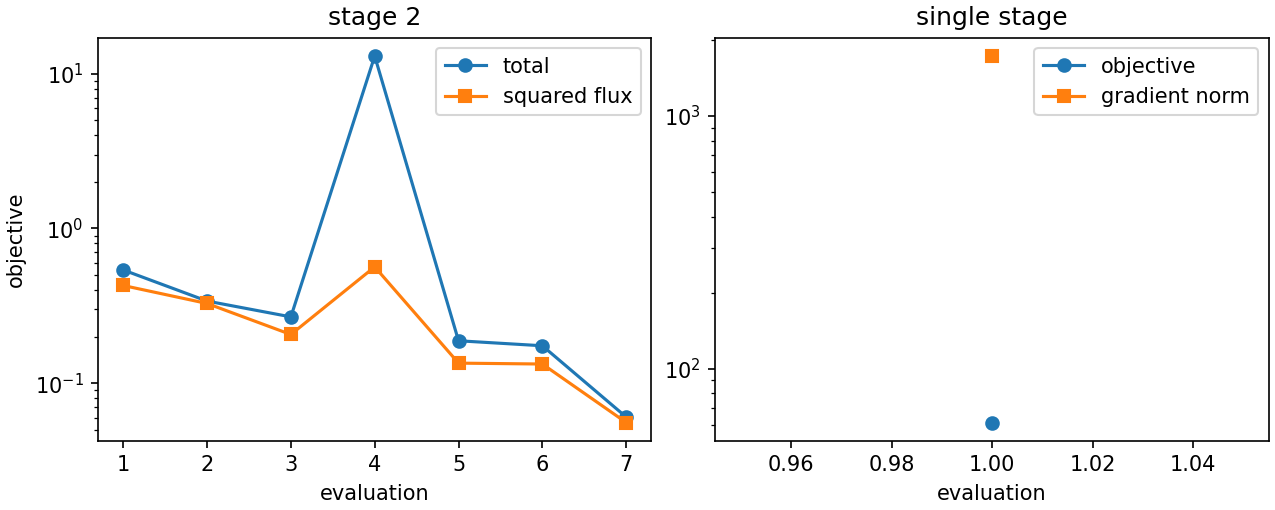
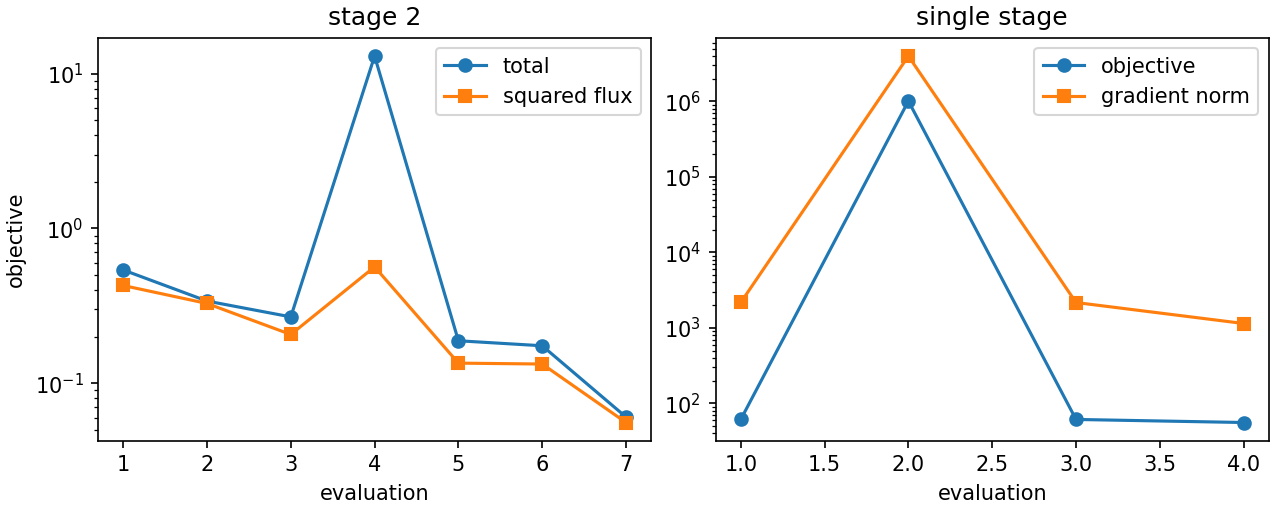
Update finite beta JAX production benchmark docs

diff --git a/docs/source/example_jax_mhd.rst b/docs/source/example_jax_mhd.rst
@@ -236,16 +236,16 @@ Reduced finite-beta benchmark artifacts from
    :alt: Reduced finite-beta JAX benchmark B-normal field.
    :width: 95%
 
-These benchmark plots use the bounded local command path with
-``SIMSOPT_JAX_SINGLE_STAGE_CHECK_ONLY=true``, a ``12 x 12`` VMEC and
-virtual-casing grid, two stage-II iterations, one exact single-stage
-objective/gradient evaluation, and ``SIMSOPT_JAX_INNER_MAX_ITER=5``.
-The ``max_mode=1`` run completed locally in ``26.69`` seconds, reduced
-the squared-flux objective from ``0.4282`` to ``0.05224``, and evaluated
-the finite-beta single-stage objective and gradient with
-``J=61.2873`` and ``|grad|=1.7263e3``. The same benchmark with
-``max_mode=2`` completed in ``77.99`` seconds and gave
-``|grad|=2.1707e3``.
+These benchmark plots use the bounded local command path with a ``12 x 12``
+VMEC and virtual-casing grid, two stage-II iterations, one guarded BFGS
+single-stage iteration, ``SIMSOPT_JAX_INNER_MAX_ITER=5``, and
+``SIMSOPT_JAX_MAX_MODE=2``. The final guarded-BFGS benchmark completed
+locally in ``174.80`` seconds. The stage-II coil solve reduced the
+squared-flux term from ``0.42816`` to ``0.05579``. The single-stage
+objective then evaluated ``J=61.2873`` with ``|grad|=2.1707e3``, rejected
+one unsafe line-search trial through the step guard, and accepted finite
+objective evaluations ``61.2626`` and ``55.7930``. The final squared flux
+was ``0.046679``.
 
 Legacy finite-beta parity
 -------------------------
